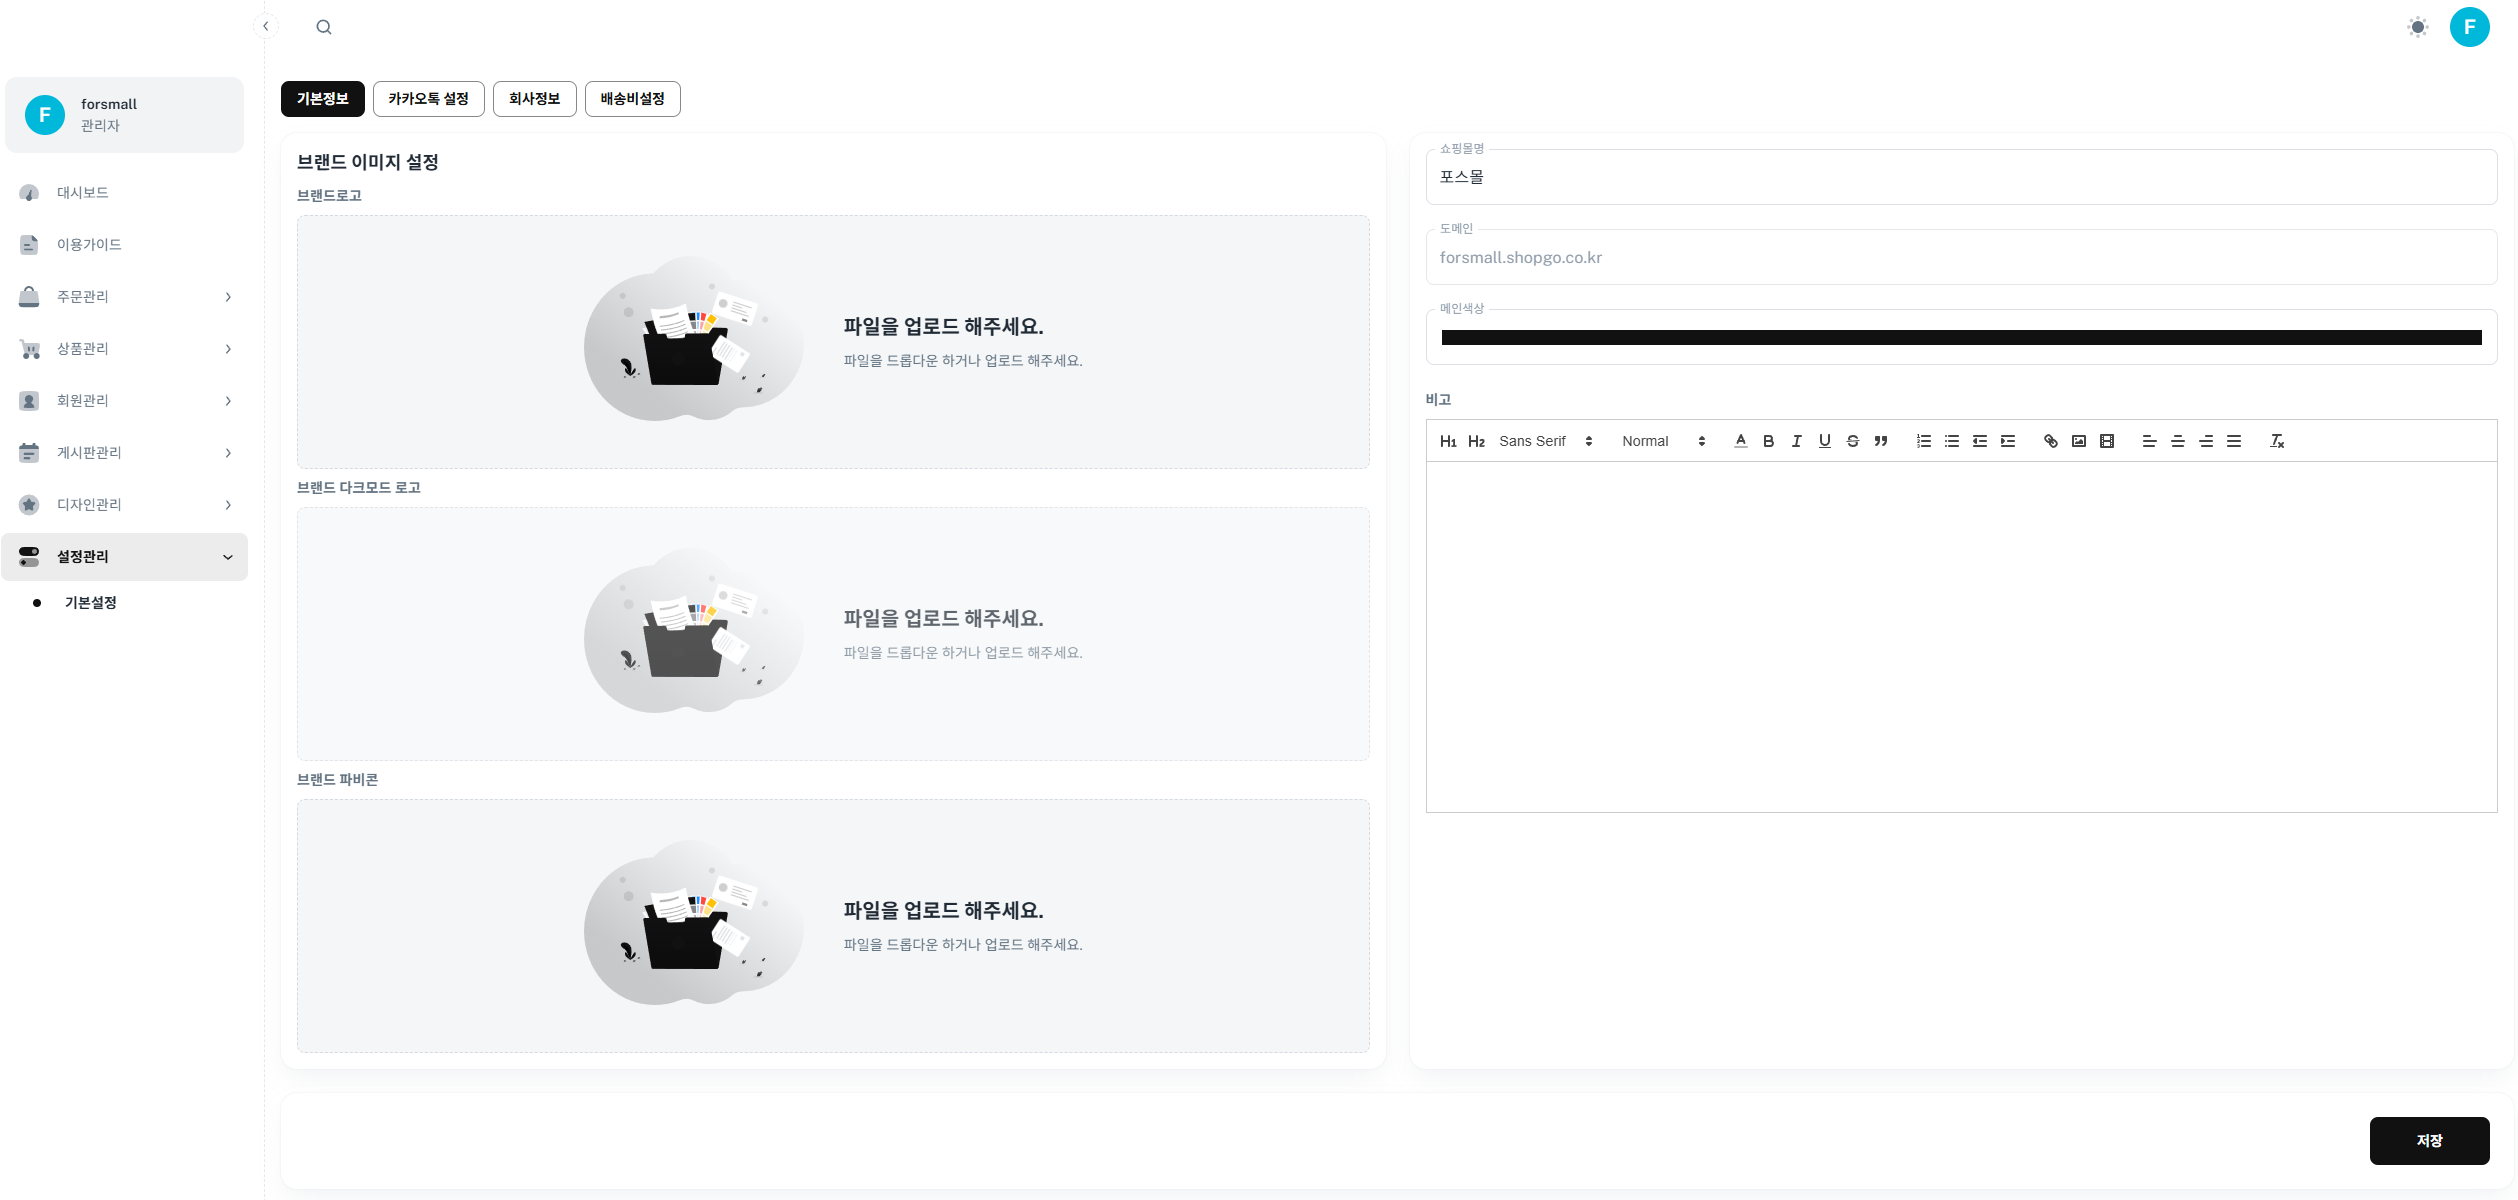
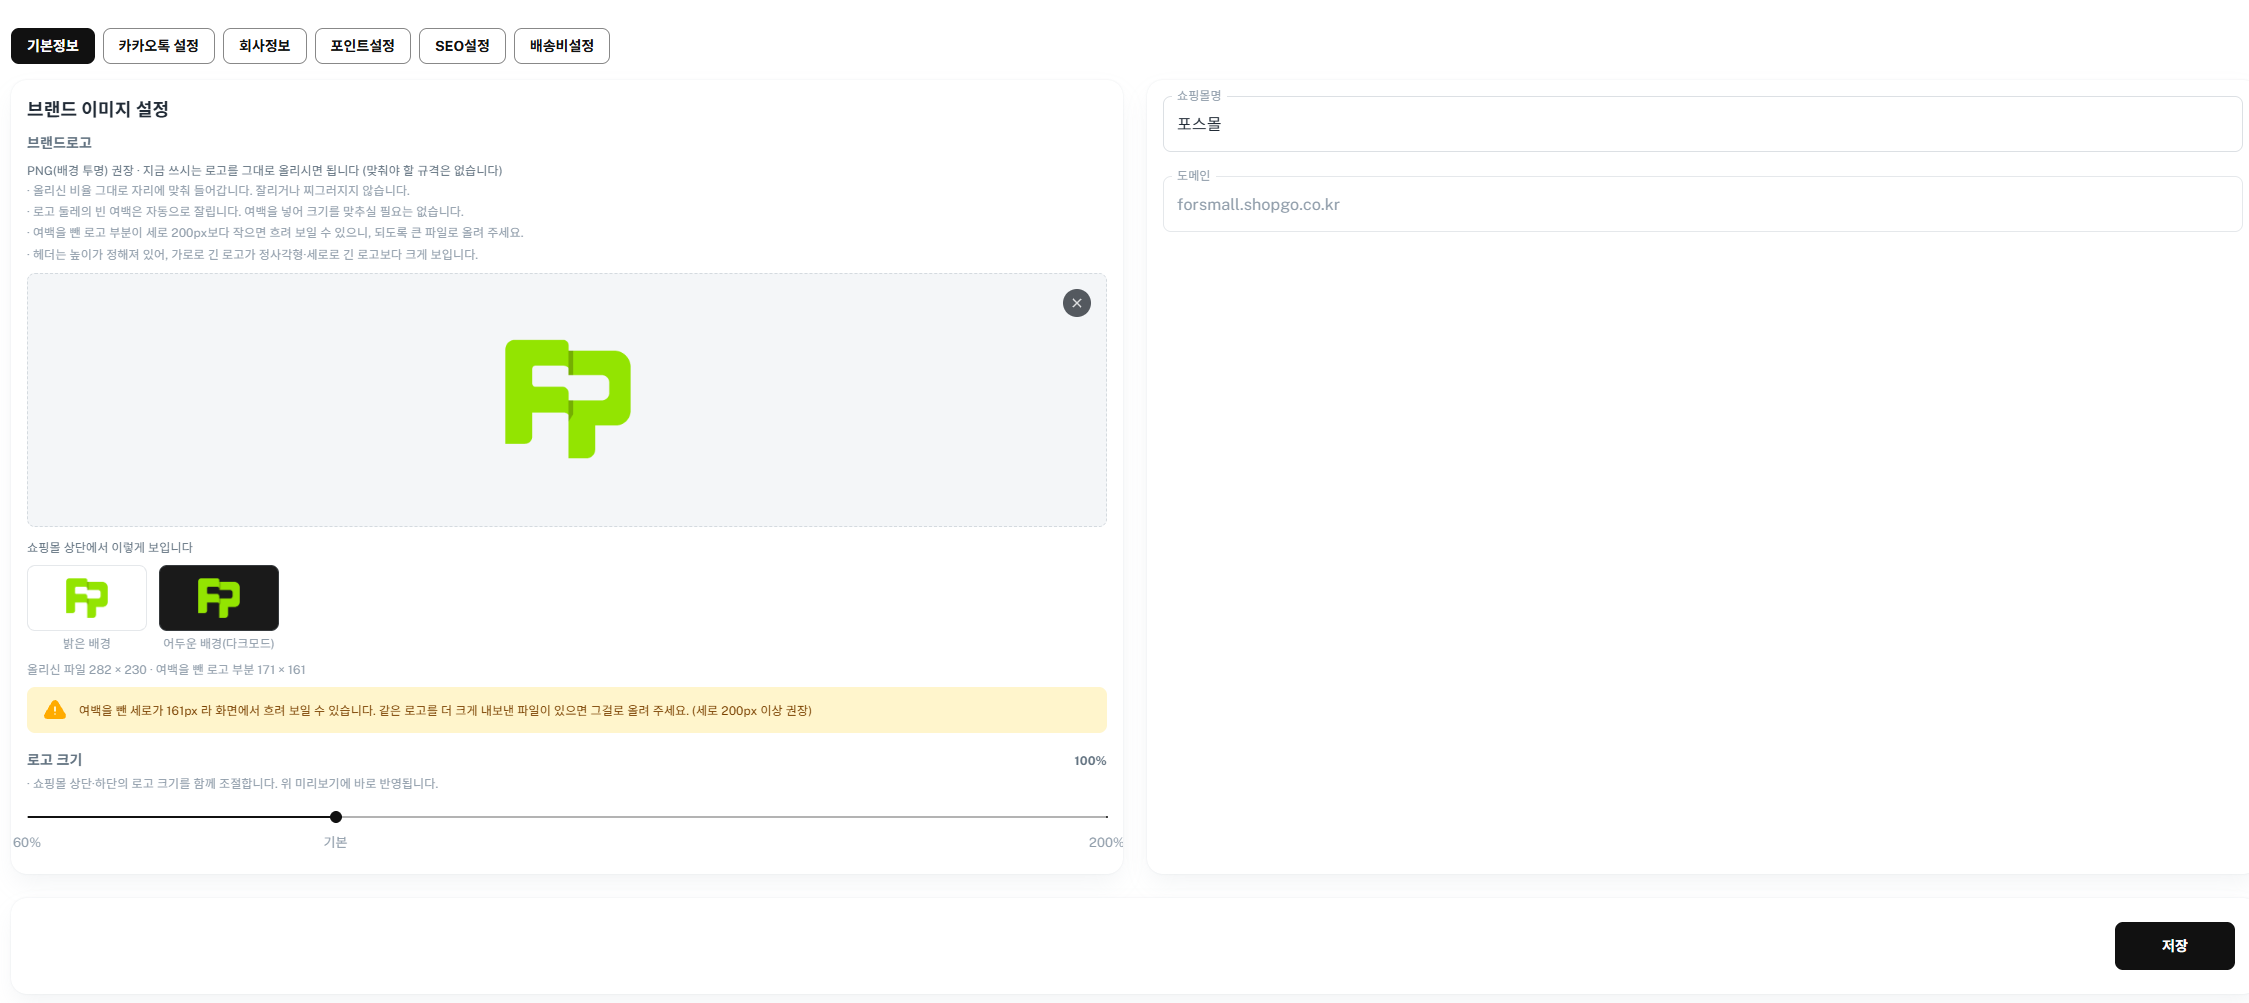
docs(가이드): 상품 옵션·포인트·기본설정 스크린샷 추가/교체
- 신규: product-option/combo/addon(상품 옵션 개편), settings-point(포인트 정책), product4(상품 등록 화면 전체)
- 교체: basic(무료몰 간소화 기본정보 탭) + 캡션 갱신
- product4를 상품 등록 섹션에 배선

diff --git a/src/components/manager/guideContent.js b/src/components/manager/guideContent.js
@@ -79,7 +79,7 @@ export const GUIDE_SECTIONS = [
       '저장',
     ],
     shots: [
-      { img: 'basic', cap: '상호·로고·대표색상과 회사/판매자 정보를 입력한 뒤 저장합니다.' },
+      { img: 'basic', cap: '「기본정보」 탭에서 브랜드 로고와 쇼핑몰 이름을 설정합니다. 회사정보·포인트·배송비는 상단 다른 탭에서 이어서 입력합니다.' },
     ],
     route: '/manager/settings/default/{id}',
   },
@@ -130,6 +130,7 @@ export const GUIDE_SECTIONS = [
     shots: [
       { img: 'product1', cap: '상품 목록에서 빨간 박스의 「+ 상품 추가」를 누릅니다.' },
       { img: 'product3', cap: '카테고리는 클릭해 담습니다(여러 개 = 칩). 상품명·판매가는 필수입니다.' },
+      { img: 'product4', cap: '상품 등록/수정 화면 전체 — 상단 정보 아래로 선택옵션·재고·한정판·추가상품·입력항목까지 한 화면에서 설정합니다.' },
     ],
     route: '/manager/products/list',
   },
